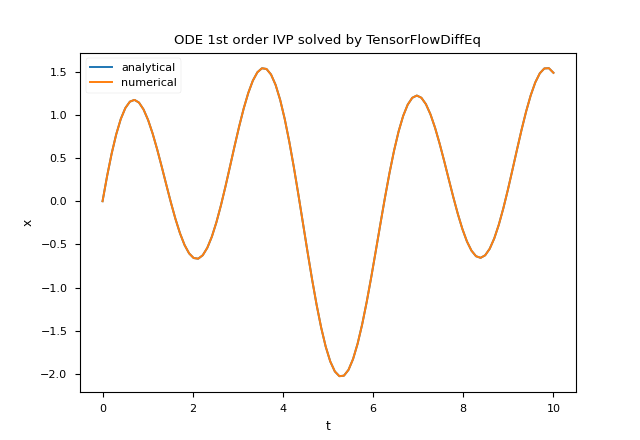
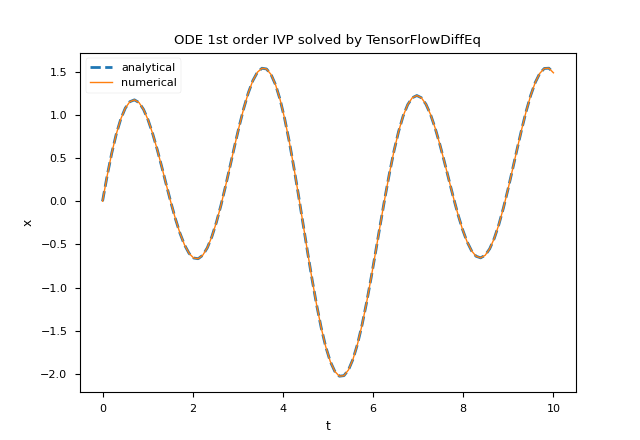
odesolvers: highlight, changed images and minor fixes

diff --git a/it/index.html b/it/index.html
@@ -209,17 +209,15 @@
 				</p>
 			</article>
 			<article>
-				<a href="../it/datasets/time-series-dataset.html" class="image">
-					<img src="../posts/datasets/timeseries/timeseries-ds-highlight.png" alt="Collezione di dataset &apos;Time&nbsp;Series&apos;" />
+				<a href="../it/reti-neurali/risolutori-di-equazioni-differenziali-ordinarie.html" class="image">
+					<img src="../posts/neural-networks/ordinary-differential-equation-solvers/nn-odesolvers-highlight.png" alt="Risolutori di equazioni differenziali ordinarie" />
 				</a>
-				<h3>Collezione di dataset &apos;Time&nbsp;Series&apos;</h3>
+				<h3>Risolutori di equazioni differenziali ordinarie</h3>
 				<p>
 					
-    Collezione di dataset sintetici generati applicando funzioni ai valori di una sequenza che rappresenta il tempo;
-    ci sono dataset fatti con funzioni scalari e vettoriali e/o di una o pi&ugrave; variabili.
-    I dataset sono in formato .csv con header (ogni colonna dell'header corrisponde al nome di una variabile) e in alcuni casi vi sono anche file in formato .arff (per Weka).
+    Esempi d&apos;uso di alcuni risolutori di equazioni differenziali ordinarie implementati da librerie frequentemente adoperate nelle applicazioni scientifiche in generale e soprattutto nel machine learning e nel deep learning.
 
-					<a href="../it/datasets/time-series-dataset.html">Segue...</a>
+					<a href="../it/reti-neurali/risolutori-di-equazioni-differenziali-ordinarie.html">Segue...</a>
 				</p>
 			</article>
 			<article>

diff --git a/en/index.html b/en/index.html
@@ -211,17 +211,15 @@
 				</p>
 			</article>
 			<article>
-				<a href="../en/datasets/time-series-dataset.html" class="image">
-					<img src="../posts/datasets/timeseries/timeseries-ds-highlight.png" alt="&apos;Time&nbsp;Series&apos; dataset collection" />
+				<a href="../en/neural-networks/ordinary-differential-equation-solvers.html" class="image">
+					<img src="../posts/neural-networks/ordinary-differential-equation-solvers/nn-odesolvers-highlight.png" alt="Ordinary differential equation solvers" />
 				</a>
-				<h3>&apos;Time&nbsp;Series&apos; dataset collection</h3>
+				<h3>Ordinary differential equation solvers</h3>
 				<p>
 					
-    Collection of synthetic datasets generated by applying functions to the values of a sequence representing time;
-    there are datasets done with scalar and vectorial functions and/or univariate and multivariate functions.
-    Datasets are in .csv format with header (each header column corresponds to a name of a variable) and in some case there is also the .arff format (for Weka).
+    Examples of use of some ordinary differential equation solvers implemented by libraries frequently used in scientific applications in general and expecially in machine learning and deep learning.
 
-					<a href="../en/datasets/time-series-dataset.html">More...</a>
+					<a href="../en/neural-networks/ordinary-differential-equation-solvers.html">More...</a>
 				</p>
 			</article>
 			<article>

diff --git a/en/neural-networks/ordinary-differential-equation-solvers.html b/en/neural-networks/ordinary-differential-equation-solvers.html
@@ -830,7 +830,7 @@ plt.show()
             Here the link to the code on <a target="_blank" href="https://github.com/ettoremessina/differential-equations/blob/main/ODEs/solver-demos/TensorFlowDiffEq/sys_1st_ord_ivp_01.py">GitHub</a>.<br />
             Here the link for the matrix form variation on <a target="_blank" href="https://github.com/ettoremessina/differential-equations/blob/main/ODEs/solver-demos/TensorFlowDiffEq/msys_1st_ord_ivp_01.py">GitHub</a>.
         </p>
-		<div class="betweentextlines"><img src="../../posts/neural-networks/ordinary-differential-equation-solvers/nn_odesolvers_result_tdeq_2.png" /></div>
+		<div class="betweentextlines"><img src="../../posts/neural-networks/ordinary-differential-equation-solvers/nn_odesolvers_result_tfdeq_2.png" /></div>
 		<div class="photocaption">Comparison of the analytical solution os the system with the numerical solution obtained by <code>tfdiffeq.odeint</code>.</div>
         </br >
         </br >
